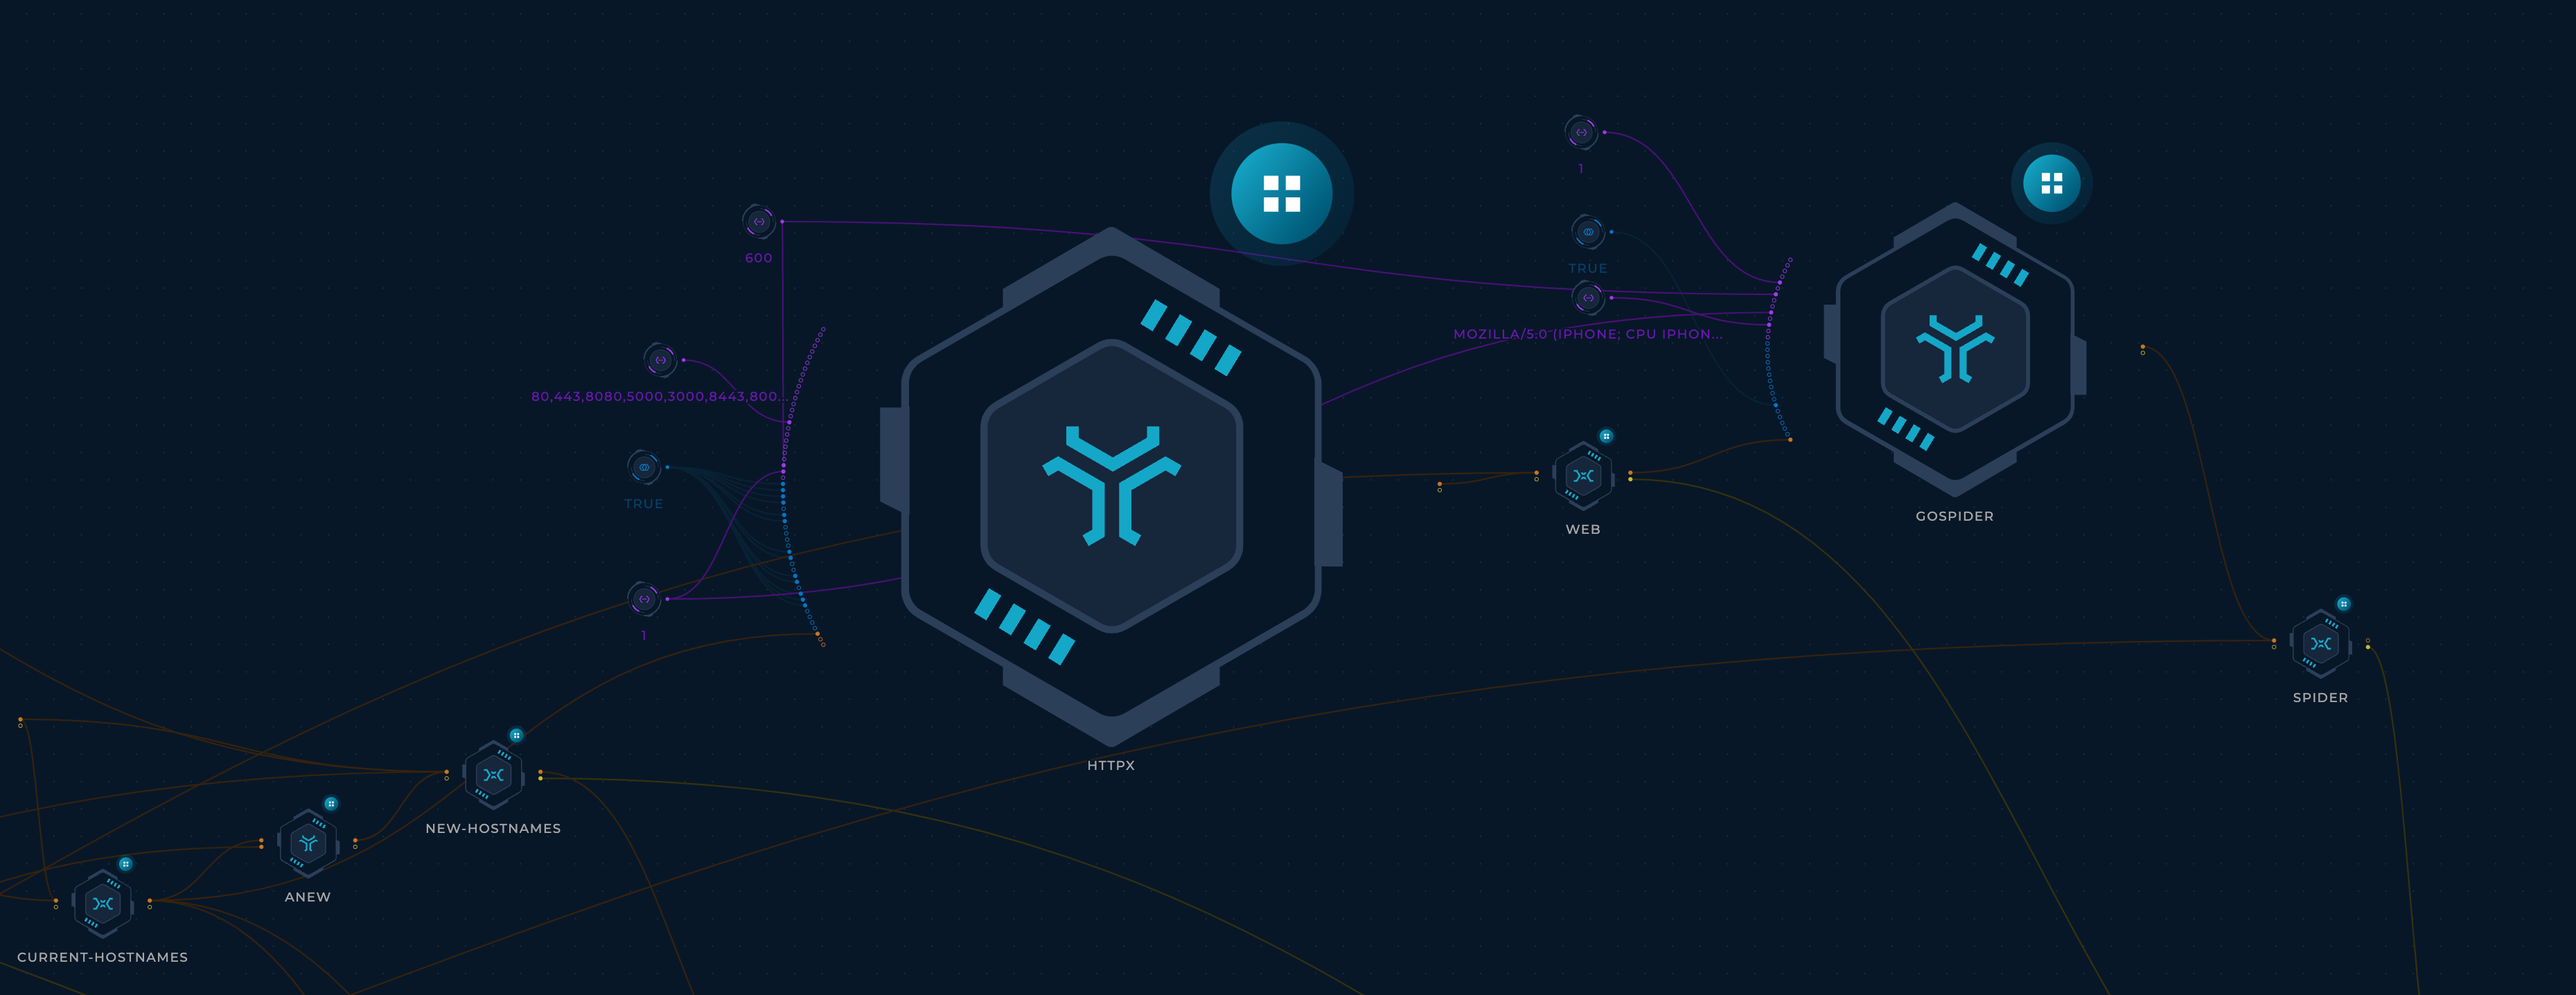
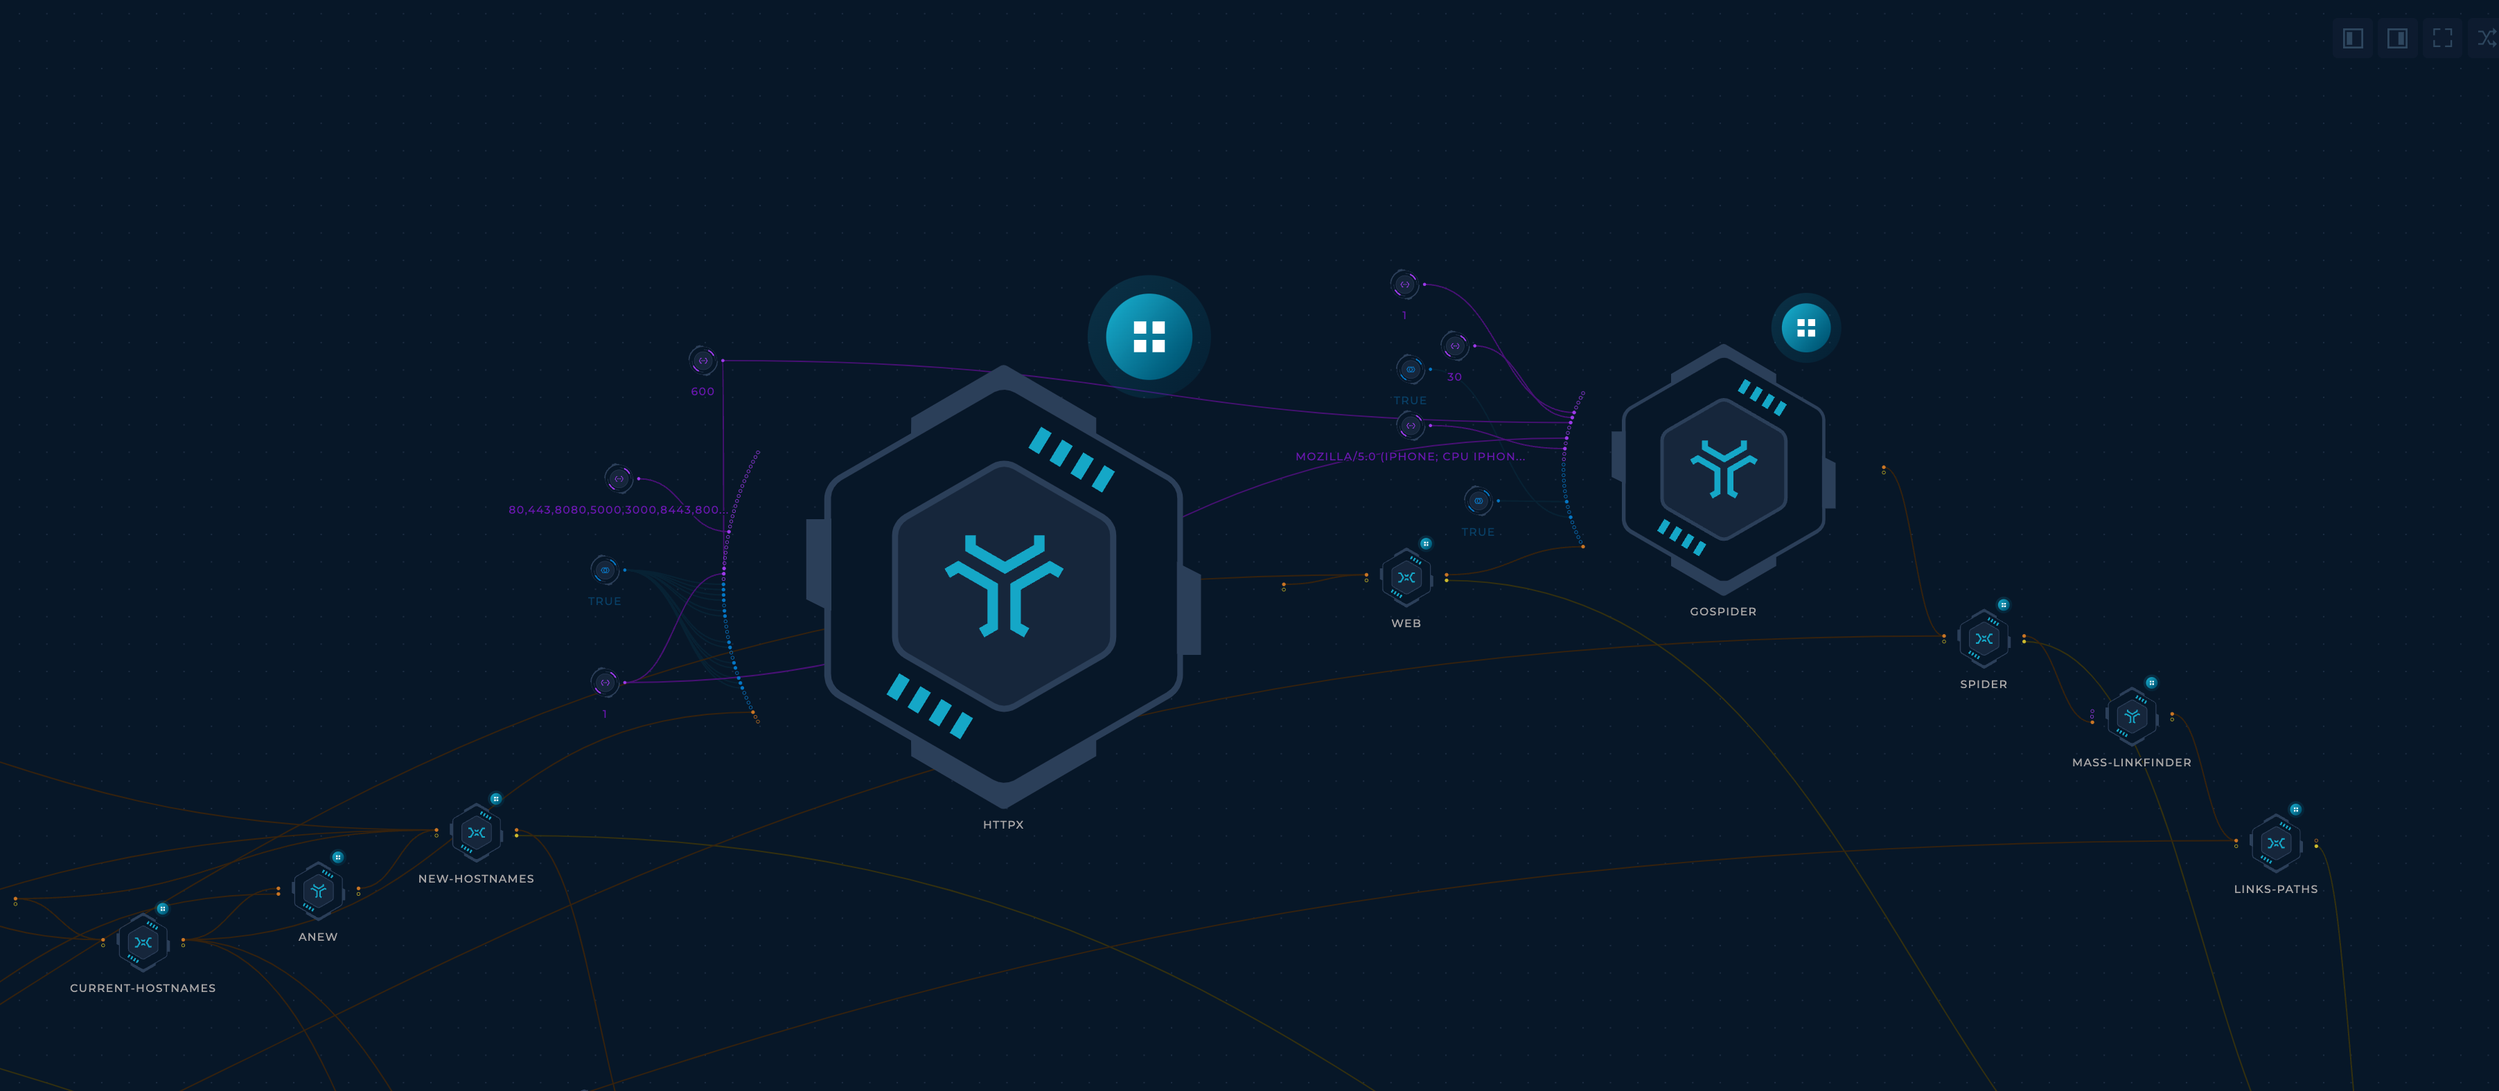
Update README.md

diff --git a/README.md b/README.md
@@ -62,13 +62,14 @@ A [Trickest](https://trickest.com) workflow picks up these targets, collects dat
     - Resolve DNS names using [puredns](https://github.com/d3mondev/puredns) (Thanks [d3mondev](https://github.com/d3mondev)!).
     - Generate permutations using [gotator](https://github.com/Josue87/gotator) (Thanks [Josue87](https://github.com/Josue87)!).
     - Resolve permutated DNS names using [puredns](https://github.com/d3mondev/puredns).
+    - Use [anew](https://github.com/tomnomnom/anew) to pass new results to next steps (Thanks [tomnomnom](https://github.com/tomnomnom)!)
 
 ---
 
 #### Web Servers
 ![Trickest Workflow - Web](screenshots/web.png "Trickest Workflow - Web")
 - For each target:
-    - Probe previously found [hostnames](#Hostnames) using [httpx](https://github.com/projectdiscovery/httpx) to find live web servers and collect their:
+    - Probe previously found [hostnames](#Hostnames) using [httpx](https://github.com/projectdiscovery/httpx) to find live web servers on specific ports (`80,443,8080,5000,3000,8443,8000,4080,8888`) and collect their:
         - HTTP Titles
         - Status Codes
         - Content Length
@@ -81,6 +82,8 @@ A [Trickest](https://trickest.com) workflow picks up these targets, collects dat
         - CNAMEs
     - Parse httpx's output and organize it into files for easier navigation.
     - Crawl the found websites using [gospider](https://github.com/jaeles-project/gospider) (Thanks [jaeles-project](https://github.com/jaeles-project/gospider)!)
+    - Use [LinkFinder](https://github.com/GerbenJavado/LinkFinder) for previously found `js` files to get their external links and paths. (Thanks [GerbenJavado](https://github.com/GerbenJavado)!)
+    - Generate files and wordlists by their type
 
 ---
 
@@ -88,7 +91,8 @@ A [Trickest](https://trickest.com) workflow picks up these targets, collects dat
 ![Trickest Workflow - URLs](screenshots/urls.png "Trickest Workflow - URLs")
 - For each target:
     - Collect URLs using previously found [hostnames](#Hostnames) with [gauplus](https://github.com/bp0lr/gauplus) (Thanks [bp0lr](https://github.com/bp0lr/gauplus)!)
-    - Use [gf](https://github.com/tomnomnom/gf) and [gf-patterns](https://github.com/1ndianl33t/Gf-Patterns) to categorize newly found URLs.
+    - Deduplicate them using [uro](https://github.com/s0md3v/uro) (Thanks [s0md3v](https://github.com/s0md3v)!)
+    - Use [gf](https://github.com/tomnomnom/gf) and [gf-patterns](https://github.com/1ndianl33t/Gf-Patterns) to categorize newly found URLs. (Thanks [tomnomnom](https://github.com/tomnomnom),[1ndianl33t](https://github.com/1ndianl33t)!)
     - Save each pattern's URLs to its own file for easier navigation.
 ---
 
@@ -134,7 +138,7 @@ trickest execute Inventory --targets targets.json
 ```
 
 ## Contribution
-All contributions/ideas/suggestions are welcome! If you want to add/edit a target/workflow, feel free to create a new ticket via [GitHub issues](https://github.com/trickest/cve/issues), tweet at us [@trick3st](https://twitter.com/trick3st), or join the conversation on [Discord](#).
+All contributions/ideas/suggestions are welcome! If you want to add/edit a target/workflow, feel free to create a new ticket via [GitHub issues](https://github.com/trickest/inventory/issues), tweet at us [@trick3st](https://twitter.com/trick3st), or join the conversation on [Discord](https://discord.gg/7HZmFYTGcQ).
 
 ## Build your own workflows
 We believe in the value of tinkering. Sign up for a demo on [trickest.com](https://trickest.com) to customize this workflow to your use case, get access to many more workflows, or build your own from scratch!
